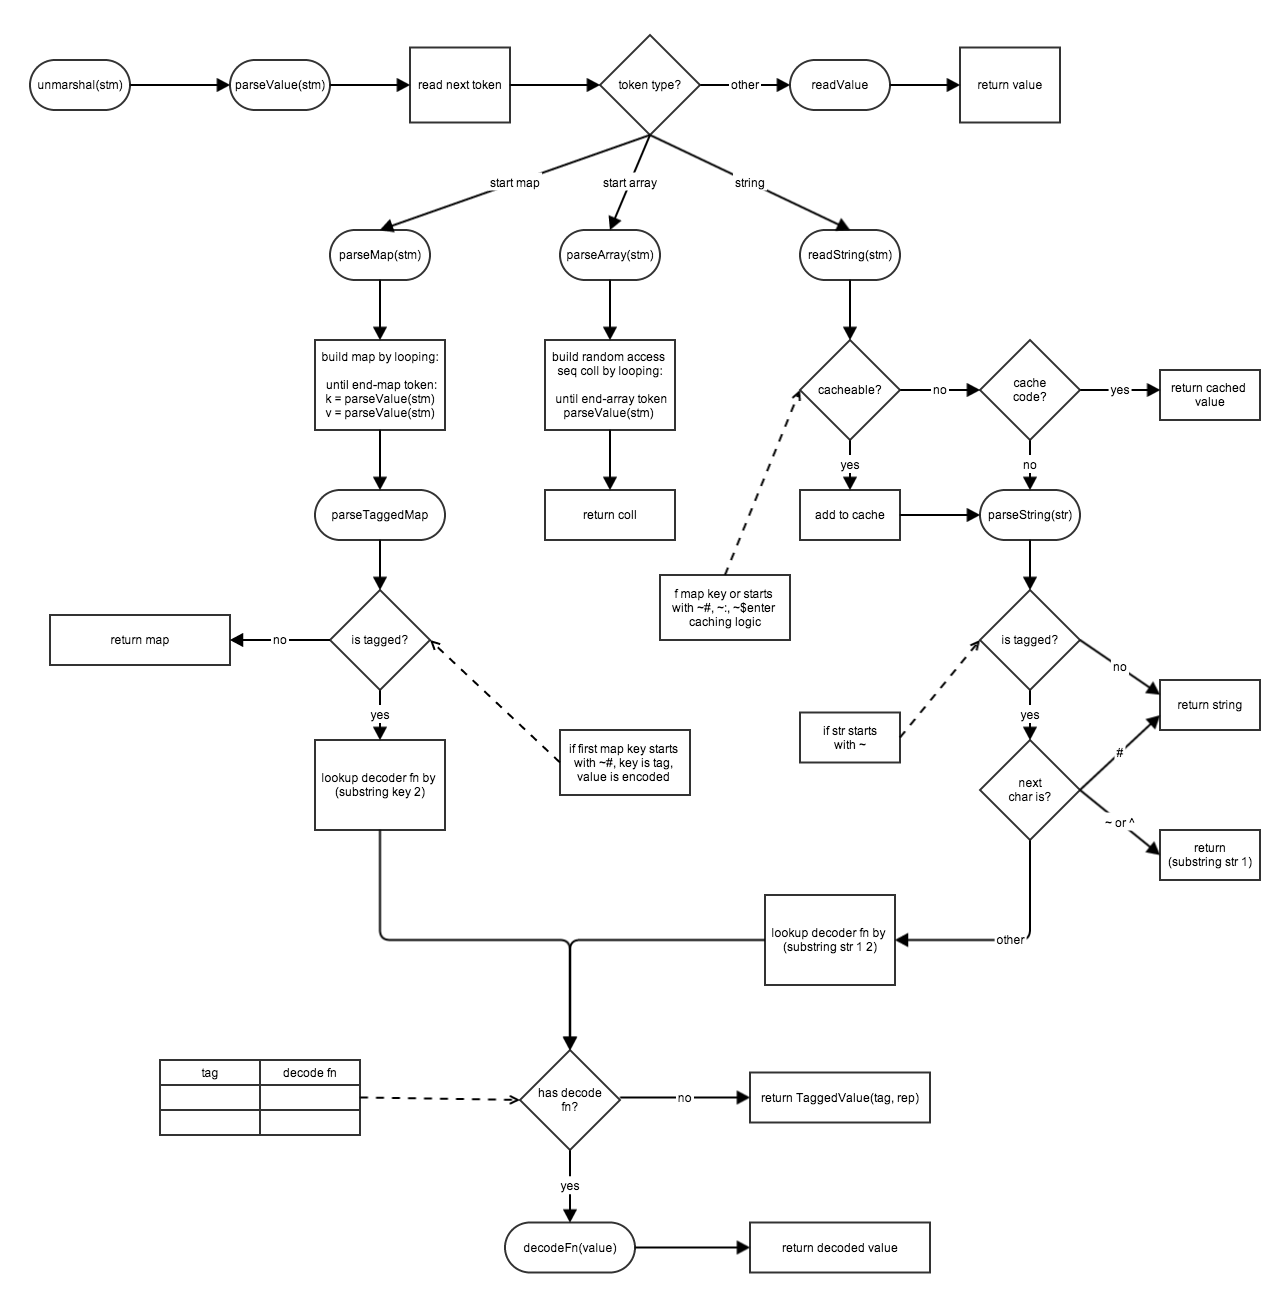
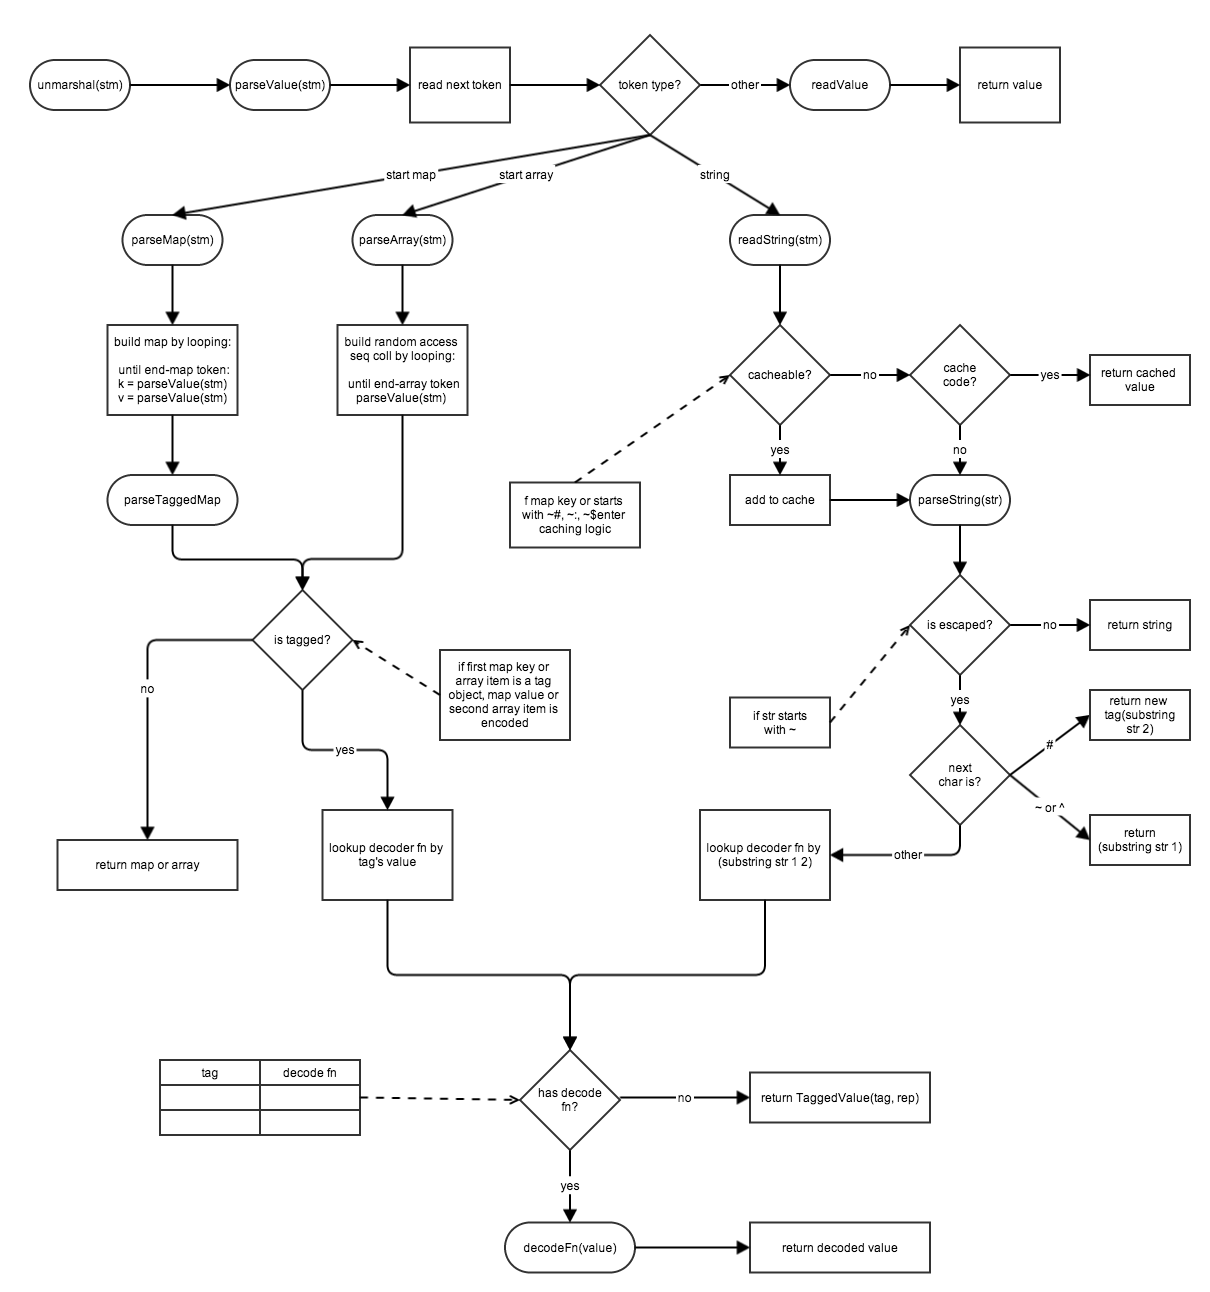
Update tables in spec, prose around handlers, update diagrams with latest changes

diff --git a/README.md b/README.md
@@ -1,12 +1,12 @@
 # Transit 
 
-Transit is a format and set of libraries for conveying values between applications written in different programming languages. This spec describes Transit in order to facilitate the implementation of encoders and decoders in a wide range of languages. 
+Transit is a format and set of libraries for conveying values between applications written in different programming languages. This spec describes Transit in order to facilitate its implementation in a wide range of languages. 
 
 *Version:* 0.8
 
 # Rationale
 
-Transit provides a set of basic of elements and a set of extension elements for representing values. The extension mechanism is open, allowing programs using to add new elements specific to their needs. Users of data formats without such facilities must rely on either schemas, convention or context to convey elements not included in the base set, making application code much more complex. With Transit, schemas, convention and context-sensitive logic are not required. 
+Transit provides a set of basic of elements and a set of extension elements for representing typed values. The extension mechanism is open, allowing programs using Transit to add new elements specific to their needs. Users of data formats without such facilities must rely on either schemas, convention or context to convey elements not included in the base set, making application code much more complex. With Transit, schemas, convention and context-sensitive logic are not required. 
 
 Transit is designed to be implemented as an encoding on top of formats for which high performance processors already exist, specifically JSON and MessagePack. Transit uses these formats' native representations for built-in elements, e.g., strings and arrays, wherever possible. Extension elements which have no native representation in these formats, e.g., dates, are represented using a tag-based encoding scheme. Extension always bottoms out on built-in types, there are no opaque binary blobs. Thus Transit format can always be decoded, and can be subject to editing, transformation and search operations, even by applications which do not 'know about' particular extension tags. In this sense, Transit is self-describing.
 
@@ -35,7 +35,7 @@ There are currently implementations for the following languages:
 
 ## How it works
 
-Transit is defined in terms of an extensible set of elements used to represent values. The elements correspond to semantic types common across programming languages, e.g., strings, arrays, URIs, etc. When an object is written with Transit, a language-specific Transit library maps the object's type to one of supported semantic types. Then it encodes the value into MessagePack or JSON using the rules defined for that semantic type. Whenever possible, data is written directly to MessagePack or JSON using those protocols' built-in types. For instance, a string or an array from any language is always just represented as a string or an array in MessagePack or JSON. When a value cannot be represented directly as a built-in type in MessagePack or JSON, it must be encoded. Encoding captures the semantic type and value of the data in a form that can be represented as a built-in type in MessagePack or JSON, either a string or a map/JSON-object. 
+Transit is defined in terms of an extensible set of elements used to represent values. The elements correspond to semantic types common across programming languages, e.g., strings, arrays, URIs, etc. When an object is written with Transit, a language-specific Transit library maps the object's type to one of supported semantic types. Then it encodes the value into MessagePack or JSON using the rules defined for that semantic type. Whenever possible, data is written directly to MessagePack or JSON using those protocols' built-in types. For instance, a string or an array from any language is always just represented as a string or an array in MessagePack or JSON. When a value cannot be represented directly as a built-in type in MessagePack or JSON, it must be encoded. Encoding captures the semantic type and value of the data in a form that can be represented as a built-in type in MessagePack or JSON, either a string, a two element array or a map/JSON-object. 
 
 When Transit data is read, any encoded values are decoded and programming language appropriate representations are produced.
 
@@ -43,39 +43,46 @@ Transit defines the rules for encoding and decoding semantically typed values. I
 
 ### Tag-based encoding
 
-When necessary, Transit encodes values are as a tag indicating their semantic type and the value represented in a form that can be represented directly in MessagePack or JSON or which can itself be encoded. Each of the semantic types that Transit supports has a unique tag. Scalar values have single-character tags and composite values have multi-character tags. When a value cannot be directly represented in MessagePack or JSON, it is encoded one of two ways:
-* as a string  ```"~" + tag-char + value-str```
+When necessary, Transit encodes values as a tag indicating their semantic type and the value in a form that can be represented directly in MessagePack or JSON, or which can itself be further encoded. Each of the semantic types that Transit supports has a unique tag. Scalar values have single-character tags and composite values have multi-character tags. When a value cannot be directly represented in MessagePack or JSON, it is encoded one of three ways:
+* as a string ```"~" + tag-char + value-str```
+* as an array ```["~#tag", value]```
 * as an object ```{"~#tag" : value}```
 
-The table below lists all of the built-in semantic types and their corresponding tags. The rows highlighted in green represent ground types. In general, instances of ground types are represented directly in MessagePack or JSON, although there are some exceptions. The rows in white are extended types. Instances of extended types are never represented directly in MessagePack or JSON, they are always encoded. Whether they are encoded in string or map form depends on whether the data is a scalar or a composite as well as whether it is being written to MessagePack or JSON. For each extended type, the rep tag, rep and string rep columns show the corresponding encoded form.
+The two tables below lists all of the built-in semantic types and their corresponding tags. The first table lists scalar types, the second table lists composite types. The first column indicates whether the type is a *ground type* or an *extension type*. In general, instances of ground types are represented directly in MessagePack or JSON, although there are some exceptions. Instances of extended types are never represented directly in MessagePack or JSON, they are always encoded. Whether they are encoded in string, array or map form depends on whether the data is a scalar or a composite as well as whether it is being written to MessagePack or JSON. For each extended type, the rep tag, rep and string rep columns show the corresponding encoded form. The MessagePack, JSON and JSON-Verbose columns show how a tag and encoded form are combined in the target format.
+
+**Scalar Types**
 
 |   | Semantic Type | Tag | Rep | Rep Tag | String rep (if not already) | MessagePack | JSON | JSON-Verbose (no caching) |
 |:--|:--------------|:----|:----|:--------|:----------------------------|:--------|:-----|:--------------------------|
-|scalar| null| _ | | nil |"\_" |nil| null when not key, else "~\_" | null when not key, else "~\_" |
-|scalar| string| s | | "string" | | String | String | String |
-|scalar| boolean |?| |  boolean| "t" or "f"| Boolean | Boolean when not key, else "~?t" or "~?f" | Boolean when not key, else "~?t" or "~?f"|
-|scalar|integer (< signed 64 bit)| i| | integer| "123"| smallest int that holds value | < 53 bits and not key, JSON number; else "~i1234..." | < 53 bits and not key, JSON number; else "~i1234..."|
-|scalar|decimal| d| |  floating pt number | "123.456" | float32 | JSON number when not key, else "~d123.456" | JSON number when not key, else "~d123.456"|
-|scalar| bytes | b | | byte array | "base64"|  "~bbase64" | "~bbase64" | "~bbase64" |
-|scalar| keyword | :| s| "key"| | "~:key"| "~:key"| "~:key" |
-|scalar| symbol | $ |s| "sym"| | "~$sym"| "~$sym"| "~$sym" |
-|scalar| big decimal| f| s| "123.456"| | "~f123.456"| "~f123.456"| "~f123.456" |
-|scalar| big integer|	n|	s|	"123"| |	"~n1234"|	"~n1234"|	"~n1234" |
-|scalar| time |m| i| int msecs| "1234566789" | {"~#m" : int}|  "~m123456789" | N/A  |
-|scalar| time |t |s| "1985-04-12T23:20:50.52Z"| | NA| NA| "~t1985-04-12T23:20:50.52Z" |
-|scalar| uuid | u | s or array|  [int int]|  "531a379e-31bb-4ce1-8690-158dceb64be6"|  {"~#u" : [hi64 lo64]}|  "~u531a379e-31bb-4ce1-8690-158dceb64be6"|  "~u531a379e-31bb-4ce1-8690-158dceb64be6" |
-|scalar| uri| r| s| | "http://..."| "~rhttp://..."| "~rhttp://..."| "~rhttp://..." |
-|scalar| char |c| s| "c"| | "~cc" | "~cc"| "~cc" |
-|scalar|Scalar extension type | X|  specify or s | "arep" or arep|  "arep" | "~Xarep" or {"~#X" : arep}|  "~Xarep" or {"~#X" : arep} | "~Xarep" or {"~#X" : arep} |
-|scalar| quoted scalar| ' | | scalar value| NA|	{"~#'" : scalar } | {"~#'" : scalar } | {"~#'" : scalar } |
-|composite| array | array | | iterable | |  Array |  Array |  Array |
-|composite| map |  map |  |  iterable &lt;map entry> |  |  Object  | Array: ["^ " k1 v1 k2 v2 ...] |  Object |
-|composite| set |  set |  array  | [vals...] |  |  {"~#set" : [vals ...]} |  {"~#set" : [vals ...]} |  {"~#set" : [vals ...]} |
-|composite| list |  list |  array |  [vals...] |  |  {"~#list" : [vals ...]} |  {"~#list" : [vals ...]} |  {"~#list" : [vals ...]} |
-|composite| map w/ composite keys |  cmap |  array |  [k1 v1 k2 v2 ...] |  |  {"~#cmap" : [k1 v1 k2 v2 ...]} |  {"~#cmap" : [k1 v1 k2 v2 ...]} |  {"~#cmap" : [k1 v1 k2 v2 ...]} |
-|composite| typed array (ints, floats, ...) |  ints, floats, ...  |  array |  [vals ...] |  |  {"~#ints" : [vals ...]} |  {"~#ints" : [vals ...]} |  {"~#ints" : [vals ...]} |
-|composite| link | 	link | 	map | map with string keys: href, rel, name, render, prompt; name, render, prompt are optional; value of href is a URI, value of all other keys is a string, value of render key must be "image" or "link", as per http://amundsen.com/media-types/collection/format/#arrays-links | | {"~#link" : {"href" "~rhttp://..." "rel" "a-rel" "name" "a-name" "render" "link or image" "prompt" "a-prompt"}} | {"~#link" : ["^ ,""href", "~rhttp://...", "rel", "a-rel", "name", "a-name", "render", "link or image", "prompt", "a-prompt"]} | {"~#link" : {"href" "~rhttp://..." "rel" "a-rel" "name" "a-name" "render" "link or image" "prompt" "a-prompt"}} |
-|*composite*|*Composite extension type* | *tag* | *specify* | *rep* |  | *{"~#tag" : rep}* | *{"~#tag" : rep}* |  *{"~#tag" : rep}* |
+|ground| null| _ | | nil |"\_" |nil| null when not key, else "~\_" | null when not key, else "~\_" |
+|ground| string| s | | "string" | | String | String | String |
+|ground| boolean |?| |  boolean| "t" or "f"| Boolean | Boolean when not key, else "~?t" or "~?f" | Boolean when not key, else "~?t" or "~?f"|
+|ground|integer (< signed 64 bit)| i| | integer| "123"| smallest int that holds value | < 53 bits and not key, JSON number; else "~i1234..." | < 53 bits and not key, JSON number; else "~i1234..."|
+|ground|decimal| d| |  floating pt number | "123.456" | float32 | JSON number when not key, else "~d123.456" | JSON number when not key, else "~d123.456"|
+|ground| bytes | b | | byte array | "base64"|  "~bbase64" | "~bbase64" | "~bbase64" |
+|extension| keyword | :| s| "key"| | "~:key"| "~:key"| "~:key" |
+|extension| symbol | $ |s| "sym"| | "~$sym"| "~$sym"| "~$sym" |
+|extension| big decimal| f| s| "123.456"| | "~f123.456"| "~f123.456"| "~f123.456" |
+|extension| big integer|	n|	s|	"123"| |	"~n1234"|	"~n1234"|	"~n1234" |
+|extension| time |m| i| int msecs| "1234566789" | ["~#m", int]|  "~m123456789" | N/A  |
+|extension| time |t |s| "1985-04-12T23:20:50.52Z"| | NA| NA| "~t1985-04-12T23:20:50.52Z" |
+|extension| uuid | u | s or array|  [int, int]|  "531a379e-31bb-4ce1-8690-158dceb64be6"|  ["~#u", [hi64, lo64]]|  "~u531a379e-31bb-4ce1-8690-158dceb64be6"|  "~u531a379e-31bb-4ce1-8690-158dceb64be6" |
+|extension| uri| r| s| | "http://..."| "~rhttp://..."| "~rhttp://..."| "~rhttp://..." |
+|extension| char |c| s| "c"| | "~cc" | "~cc"| "~cc" |
+|extension| quoted scalar| ' | | scalar value| NA|	["~#'", scalar] | ["~#'", scalar] | {"~#'" : scalar } |
+|*extension*|*Scalar extension type* | *X*| *specify or s* | *"arep" or arep*|  *"arep"* | *"~Xarep" or ["~#X", arep]*| *"~Xarep" or ["~#X", arep]* | *"~Xarep" or ["~#X", arep]* |
+
+**Composite Types**
+
+|   | Semantic Type | Tag | Rep | Rep Tag | String rep (if not already) | MessagePack | JSON | JSON-Verbose (no caching) |
+|:--|:--------------|:----|:----|:--------|:----------------------------|:--------|:-----|:--------------------------|
+|ground| array | array | | iterable | |  Array |  Array |  Array |
+|ground| map |  map |  |  iterable &lt;map entry> |  |  Object  | Array: ["^ ", k1, v1, ...] |  Object |
+|extension| set |  set |  array  | [vals...] |  |  ["~#set", [vals ...]] |  ["~#set", [vals ...]] |  {"~#set" : [vals ...]} |
+|extension| list |  list |  array |  [vals...] |  |  ["~#list", [vals ...]] |  ["~#list", [vals ...]] |  {"~#list" : [vals ...]} |
+|extension| map w/ composite keys |  cmap |  array |  [k1, v1, ...] |  |  ["~#cmap", [k1, v1, ...]] |  ["~#cmap", [k1, v1, ...]] |  {"~#cmap" : [k1, v1, ...]} |
+|extension| link | 	link | 	map | map with string keys: href, rel, name, render, prompt; name, render, prompt are optional; value of href is a URI, value of all other keys is a string, value of render key must be "image" or "link", as per http://amundsen.com/media-types/collection/format/#arrays-links | | ["~#link" , {"href": "~rhttp://...", "rel": "a-rel", "name": "a-name", "render": "link or image", "prompt": "a-prompt"}] | ["~#link" , {"href": "~rhttp://...", "rel": "a-rel", "name": "a-name", "render": "link or image", "prompt": "a-prompt"}] | {"~#link" : {"href": "~rhttp://...", "rel": "a-rel", "name": "a-name", "render": "link or image", "prompt": "a-prompt"}} |
+|*extension*|*Composite extension type* | *tag* | *specify* | *rep* |  | *{"~#tag" : rep}* | *{"~#tag" : rep}* |  *{"~#tag" : rep}* |
 
 Note that there are two modes for writing data in JSON. In normal JSON mode, caching is enabled (explained below) and maps are represented as arrays with a special marker element. There is also JSON-Verbose mode, which is less efficient, but easier for a person to read. In JSON-Verbose mode, caching is disabled and maps are represented as objects. This is useful for configuration files, debugging, or any other situation where readability is more important than performance. 
 
@@ -87,7 +94,7 @@ Transit relies on a small number of character sequences to encode specific infor
 |:----|:----|:----
 |~|string tag|followed by single char, upper-case reserved for app extensions, then string value
 |~#|tag|followed by tag name, one or more chars
-|^|cache|followed by one or two chars in range 33-126 (see Caching below) 
+|^|cache|followed by one or two chars (see Caching below) 
 |"^ "|map-as-array marker|when it is first item in array, indicates array represents a map
 |`|reserved|save backquote for expansion, escaped for now
 
@@ -99,16 +106,16 @@ Transit implements a caching stream to compress repetitive data. Specifically, a
 
 #### Cache codes
 
-Cache codes are generated using an increasing integer index. The number is converted to a one or two digit string expressed ASCII 33-126 for numerals with a "^" prefix, i.e., "^c" or "^cc". Since there are 94 numerals and up to 2 digits, the possible range of cache codes is from 0 to 94^2. The code below shows how to convert back and forth between integer indexes and the corresponding cache codes.
+Cache codes are generated using an increasing integer index. The number is converted to a one or two digit string expressed ASCII 44-91, inclusive, for numerals with a "^" prefix, i.e., "^c" or "^cc". Since there are 44 numerals and up to 2 digits, the possible range of cache codes is from 0 to 44^2. The code below shows how to convert back and forth between integer indexes and the corresponding cache codes.
 
 ```java
-private static final int CACHE_CODE_NUMERALS = 94;
-private static final int BASE_CHAR_INDEX = 33;
+private static final int CACHE_CODE_DIGITS = 44;
+private static final int BASE_CHAR_INDEX = 48;
 private static final String SUB_STR = "^";
  
 private String indexToCode(int index) {
-    int hi = index / CACHE_CODE_NUMERALS;
-    int lo = index % CACHE_CODE_NUMERALS;
+    int hi = index / CACHE_CODE_DIGITS;
+    int lo = index % CACHE_CODE_DIGITS;
     if (hi == 0) {
         return SUB_STR + (char)(lo + BASE_CHAR_INDEX);
     } else {
@@ -121,7 +128,7 @@ private int codeToIndex(String s) {
     if (sz == 2) {
         return ((int)s.charAt(1) - WriteCache.BASE_CHAR_INDEX);
     } else {
-        return (((int)s.charAt(1) - WriteCache.BASE_CHAR_INDEX) * WriteCache.CACHE_CODE_NUMERALS) +
+        return (((int)s.charAt(1) - WriteCache.BASE_CHAR_INDEX) * WriteCache.CACHE_CODE_DIGITS) +
                 ((int)s.charAt(2) - WriteCache.BASE_CHAR_INDEX);
     }
 }
@@ -170,24 +177,26 @@ To define a new semantic type, specify its meaning, tag and representation. You 
 
 |   | Semantic Type | Tag | Rep | Rep Tag | String rep (if not already) | MessagePack | JSON | JSON-Verbose (no caching) |
 |:--|:--------------|:----|:----|:--------|:----------------------------|:--------|:-----|:--------------------------|
-| scalar | point|point| array|[int int] | |{"~#point" : [int int] }|{"~#point" : [int int] }| {"~#point" : [int int] }
+| extension | point|point| array|[int, int] | |["~#point", [int, int] ]|["~#point", [int, int] ]| {"~#point" : [int, int] }
 
 Once the semantic type is defined, you can create handlers and decoders.
 
-A handler maps values of a programming language type to values of a Transit semantic type. A handler is a logical interface with the following operations (details differ by programming language):
+A *write handler* maps values of a programming language type to values of a Transit semantic type. A write handler is a logical interface with the following operations (details differ by programming language):
 
 |Operation|Args|Notes
 |:--------|:---|:----
 |tag|object|return tag for object
 |rep|object|return encodable representation of object
 |stringRep|object|return string representation of object
-|verboseHandler|&lt;none>|return an alternate handler to use in verbose mode to produce a more readable representation
+|getVerboseHandler|&lt;none>|return an alternate handler to use in verbose mode to produce a more readable representation
 
-A handler for an extension type must implement the rep operation. Transit calls rep to get an encodable representation of a value. The encodable representation may be any type for which a handler exists OR a type that can be mapped directly to a ground semantic type. The tag rep column in the semantic type table above lists the programming language types that map directly to ground types without requiring handlers (for instance, an iterable maps directly to an array). Transit implementations provide an as-tag function to allow you to specify a particular tag and rep to use to represent an extension type, if that is more efficient than representing an extension type using a type for which a handler exists. For example, you can represent an extension type as an array by either having rep return an array (for which there is a handler) or by having it return an as-tag value with the tag "array" and an iterable value as the rep. 
+A write handler for an extension type must implement the rep operation. Transit calls rep to get an encodable representation of a value. The encodable representation may be any type for which a handler exists OR a type that can be mapped directly to a ground semantic type. The tag rep column in the semantic type table above lists the programming language types that map directly to ground types without requiring handlers (for instance, an iterable maps directly to an array). Transit implementations provide an tagged-value function to allow you to specify a particular tag and rep to use to represent an extension type, if that is more efficient than representing an extension type using a type for which a handler exists. For example, you can represent an extension type as an array by either having rep return an array (for which there is a handler) or by having it return an tagged-value with the tag "array" and an iterable value as the rep. 
 
-A decoder maps values of a Transit semantic type to values of a programming language type. A decoder is a logical function that constructs a new value from a representation (details differ by programming language).
+Maps are used to associate programming language types with write handlers.
 
-Maps are used to associate handlers with programming language types and decoders with Transit tags.
+A *read handler* maps values of a Transit semantic type to values of a programming language type. A read handler is a logical function that constructs a new value from a representation (details differ by programming language).
+
+Maps are used to associate Transit tags with read handlers.
 
 Here is an example of a handler and a decoder for the point semantic type that map from/to a Point record type in Clojure:
 
@@ -215,7 +224,7 @@ For example, imagine a circle semantic type with the tag "circle" represented as
 
 |   | Semantic Type | Tag | Rep | Rep Tag | String rep (if not already) | MessagePack | JSON | JSON-Verbose (no caching) |
 |:--|:--------------|:----|:----|:--------|:----------------------------|:--------|:-----|:--------------------------|
-|scalar	|circle| circle| array	|[point int] | | {"~#circle" : [point int] } | {"~#circle" : [point int] } | {"~#circle" : [point int] }
+|extension	|circle| circle| array	|[point, int] | | ["~#circle", [point, int]] | ["~#circle", [point, int] ] | {"~#circle" : [point, int] }
 
 Here is an example of a handler and a decoder for the circle semantic type that map from/to a Circle record type in Clojure:
 
@@ -238,7 +247,7 @@ Here is an example of a handler and a decoder for the circle semantic type that 
 The Transit encoding of a circle at 10, 20 with a radius of 5 looks like this in JSON:
 
 ```javascript
-{"~#circle" : [{"~#point" : [10 20]}, 5]}
+["~#circle", [ ["~#point", [10, 20] ], 5] ]
 ```
 
 ### Quoting
